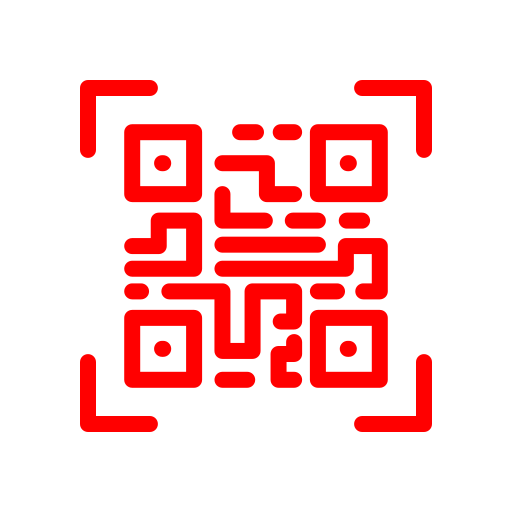
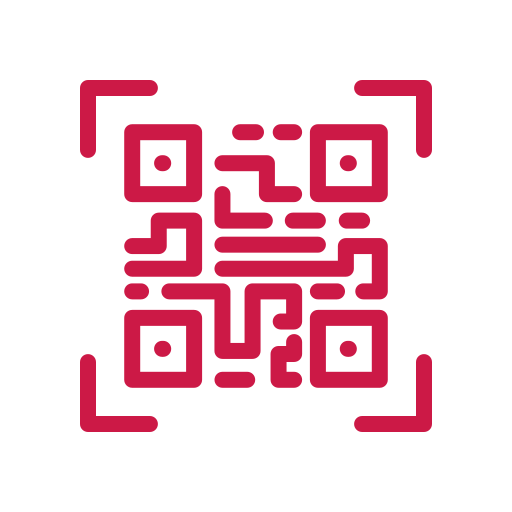
fim

diff --git a/APP3/my-app/app/(tabs)/Perfil.tsx b/APP3/my-app/app/(tabs)/Perfil.tsx
@@ -1,7 +1,7 @@
 import React from "react";
 import { View, Text, TouchableOpacity, StyleSheet, ScrollView, Image } from "react-native";
 
-// Imagens placeholders (adicione seus arquivos)
+// Imagens placeholders
 const FotoPerfil = require("../../assets/images/perfilbola.png"); 
 const IconTelefone = require("../../assets/images/telefone.png"); 
 const IconEntrega = require("../../assets/images/entrega.png"); 
@@ -18,34 +18,42 @@ const IconSeta = require("../../assets/images/seta-direitaC.png");
 export default function Tela03Screen() {
   return (
     <ScrollView style={styles.container}>
-      {/* Header */}
-      <View style={styles.header}>
-        <View style={styles.headerLeft}>
-          <Image source={FotoPerfil} style={styles.fotoPerfil} />
-          <View style={styles.nomeTelefone}>
-            <Text style={styles.nome}>Ana Beatriz</Text>
-            <View style={styles.telefoneContainer}>
-              <Image source={IconTelefone} style={styles.iconTelefone} />
-              <Text style={styles.addTel}>+ Adicionar telefone de acesso</Text>
-            </View>
-          </View>
-        </View>
+      
+      {/* QR Code superior */}
+      <View style={styles.qrContainer}>
         <Image source={IconCodigo} style={styles.iconCodigo} />
       </View>
 
-      {/* Box */}
+      {/* Header perfil */}
+      <View style={styles.headerPerfil}>
+        <Image source={FotoPerfil} style={styles.fotoPerfil} />
+        <View style={styles.nomeTelefone}>
+          <Text style={styles.nome}>Ana Beatriz</Text>
+          <View style={styles.telefoneContainer}>
+            <Image source={IconTelefone} style={styles.iconTelefone} />
+            <Text style={styles.addTel}> Adicionar telefone de acesso</Text>
+          </View>
+        </View>
+      </View>
+
+      {/* Box Entrega mais segura */}
       <TouchableOpacity style={styles.boxEntrega}>
         <View style={styles.boxLeft}>
           <Image source={IconEntrega} style={styles.boxIcon} />
           <View>
             <Text style={styles.boxText}>Entrega mais segura</Text>
-            <Text style={styles.itemSubText}>Agora dá pra alterar o código de entrega. Vem ver!</Text>
+            <Text style={styles.itemSubText}>Agora dá pra alterar o código de</Text>
+            <Text style={styles.itemSubText}>entrega. Vem ver!</Text> 
           </View>
         </View>
-        <Image source={IconSeta} style={[styles.seta, { tintColor: "red" }]} />
+        <View style={styles.boxRight}>
+          <View style={styles.avisoNovo}>
+            <Text style={styles.badgeNovoText}>NOVO!</Text>
+          </View>
+          <Image source={IconSeta} style={[styles.seta, { tintColor: "#cc1946ff" }]} />
+        </View>
       </TouchableOpacity>
 
-      {/* Lista de opções */}
       {/* Conversas */}
       <TouchableOpacity style={styles.item}>
         <View style={styles.itemLeft}>
@@ -56,10 +64,10 @@ export default function Tela03Screen() {
           </View>
         </View>
         <View style={styles.rightContainer}>
-          <Image source={IconSeta} style={styles.seta} />
           <View style={styles.aviso}>
             <Text style={styles.avisoText}>2</Text>
           </View>
+          <Image source={IconSeta} style={styles.seta} />
         </View>
       </TouchableOpacity>
 
@@ -73,10 +81,10 @@ export default function Tela03Screen() {
           </View>
         </View>
         <View style={styles.rightContainer}>
-          <Image source={IconSeta} style={styles.seta} />
           <View style={styles.aviso}>
             <Text style={styles.avisoText}>3</Text>
           </View>
+          <Image source={IconSeta} style={styles.seta} />
         </View>
       </TouchableOpacity>
 
@@ -89,7 +97,12 @@ export default function Tela03Screen() {
             <Text style={styles.itemSubText}>Minhas informações da conta</Text>
           </View>
         </View>
-        <Image source={IconSeta} style={styles.seta} />
+        <View style={styles.rightContainer}>
+          <View style={styles.avisoA}>
+            <Text style={styles.avisoTextA}>!</Text>
+          </View>
+          <Image source={IconSeta} style={styles.seta} />
+        </View>
       </TouchableOpacity>
 
       {/* Pagamentos */}
@@ -102,10 +115,10 @@ export default function Tela03Screen() {
           </View>
         </View>
         <View style={styles.rightContainer}>
-          <Image source={IconSeta} style={styles.seta} />
           <View style={styles.avisoNovo}>
             <Text style={styles.badgeNovoText}>NOVO!</Text>
           </View>
+          <Image source={IconSeta} style={styles.seta} />
         </View>
       </TouchableOpacity>
 
@@ -131,10 +144,10 @@ export default function Tela03Screen() {
           </View>
         </View>
         <View style={styles.rightContainer}>
-          <Image source={IconSeta} style={styles.seta} />
           <View style={styles.avisoNovo}>
             <Text style={styles.badgeNovoText}>NOVO!</Text>
           </View>
+          <Image source={IconSeta} style={styles.seta} />
         </View>
       </TouchableOpacity>
 
@@ -169,22 +182,24 @@ export default function Tela03Screen() {
 const styles = StyleSheet.create({
   container: { flex: 1, backgroundColor: "#fff" },
 
-  header: { 
-    flexDirection: "row", 
-    justifyContent: "space-between", 
-    alignItems: "center", 
-    padding: 15, 
-    borderBottomWidth: 1, 
-    borderColor: "#eee" 
+  qrContainer: {
+    alignItems: "flex-end",
+    padding: 15,
   },
-  headerLeft: { flexDirection: "row", alignItems: "center" },
+  iconCodigo: { width: 30, height: 30, tintColor: "#cc1946ff" },
+
+  headerPerfil: { 
+    flexDirection: "row", 
+    alignItems: "center", 
+    paddingHorizontal: 15,
+    marginBottom: 15,
+  },
   fotoPerfil: { width: 60, height: 60, borderRadius: 30 },
   nomeTelefone: { marginLeft: 10 },
   nome: { fontSize: 20, fontWeight: "bold" },
   telefoneContainer: { flexDirection: "row", alignItems: "center", marginTop: 5 },
-  iconTelefone: { width: 18, height: 18, marginRight: 5 },
-  addTel: { fontWeight: "bold", color: "red" },
-  iconCodigo: { width: 30, height: 30 },
+  iconTelefone: { width: 18, height: 18, marginRight: 5, tintColor: "#cc1946ff" },
+  addTel: { fontWeight: "bold", color: "#cc1946ff" },
 
   boxEntrega: {
     flexDirection: "row",
@@ -193,16 +208,18 @@ const styles = StyleSheet.create({
     padding: 15,
     margin: 15,
     borderRadius: 10,
-    backgroundColor: "#f5f5f5",
+    backgroundColor: "#ecececd7",
     shadowColor: "#000",
     shadowOpacity: 0.05,
     shadowRadius: 3,
     shadowOffset: { width: 0, height: 2 },
     elevation: 2,
+    position: "relative",
   },
   boxLeft: { flexDirection: "row", alignItems: "center" },
   boxIcon: { width: 70, height: 70, marginRight: 10 },
   boxText: { fontSize: 16, fontWeight: "bold" },
+  boxRight: { flexDirection: "row", alignItems: "center", position: "relative" },
   seta: { width: 15, height: 15 },
 
   item: {
@@ -217,31 +234,38 @@ const styles = StyleSheet.create({
   itemLeft: { flexDirection: "row", alignItems: "center" },
   itemIcon: { width: 25, height: 25, marginRight: 10 },
   itemText: { fontSize: 16 },
-  itemSubText: { fontSize: 12, color: "#aaa" },
+  itemSubText: { fontSize: 12, color: "#9e9e9eff" },
 
-  rightContainer: { position: "relative" },
+  rightContainer: { flexDirection: "row", alignItems: "center", position: "relative" },
 
   aviso: {
-    position: "absolute",
-    top: -1,
-    right: 20,
+    marginRight: 5,
     width: 18,
     height: 18,
     borderRadius: 9,
-    backgroundColor: "red",
+    backgroundColor: "#cc1946ff",
     justifyContent: "center",
     alignItems: "center",
   },
   avisoText: { color: "#fff", fontSize: 10, fontWeight: "bold" },
 
+    avisoA: {
+    marginRight: 5,
+    width: 18,
+    height: 18,
+    borderRadius: 9,
+    backgroundColor: "#ffae00ff",
+    justifyContent: "center",
+    alignItems: "center",
+  },
+  avisoTextA: { color: "#000000ff", fontSize: 10, fontWeight: "bold" },
+  
   avisoNovo: {
-    position: "absolute",
-    top: -1,
-    right: 20,
+    marginRight: 5,
     paddingHorizontal: 6,
     height: 18,
     borderRadius: 9,
-    backgroundColor: "red",
+    backgroundColor: "#cc1946ff",
     justifyContent: "center",
     alignItems: "center",
   },

diff --git a/APP3/my-app/app/(tabs)/index.tsx b/APP3/my-app/app/(tabs)/index.tsx
@@ -37,6 +37,12 @@ const produtos: Produto[] = [
   { id: "4", nome: "Metade Milho", preco: "R$ 58,00", img: BoloMandioca },
   { id: "5", nome: "Bolo Milho", preco: "R$ 40,00", img: BoloChocolateMorango },
   { id: "6", nome: "Bolo Mandioca Romeu e Julieta", preco: "R$ 28,00", img: BoloCoco },
+  { id: "7", nome: "Metade Cenoura com Cobertura", preco: "R$ 30,00", img: BoloCenoura },
+  { id: "8", nome: "Bolo Cenoura com cobertura", preco: "R$ 34,00", img: BoloFormigueiro },
+  { id: "9", nome: "Bolo de Formigueiro", preco: "R$ 23,00", img: BoloMilho },
+  { id: "10", nome: "Metade Milho", preco: "R$ 58,00", img: BoloMandioca },
+  { id: "11", nome: "Bolo Milho", preco: "R$ 40,00", img: BoloChocolateMorango },
+  { id: "12", nome: "Bolo Mandioca Romeu e Julieta", preco: "R$ 28,00", img: BoloCoco },
 ];
 
 const screenWidth = Dimensions.get("window").width;

diff --git a/APP3/my-app/app/(tabs)/Busca.tsx b/APP3/my-app/app/(tabs)/Busca.tsx
@@ -37,6 +37,9 @@ const produtos: Produto[] = [
   { id: "4", nome: "Metade Milho", preco: "R$ 58,00", img: BoloMandioca },
   { id: "5", nome: "Bolo Milho", preco: "R$ 40,00", img: BoloChocolateMorango },
   { id: "6", nome: "Bolo Mandioca Romeu e Julieta", preco: "R$ 28,00", img: BoloCoco },
+  { id: "7", nome: "Metade Cenoura com Cobertura", preco: "R$ 30,00", img: BoloCenoura },
+  { id: "8", nome: "Bolo Cenoura com cobertura", preco: "R$ 34,00", img: BoloFormigueiro },
+  { id: "9", nome: "Bolo de Formigueiro", preco: "R$ 23,00", img: BoloMilho },
 ];
 
 const screenWidth = Dimensions.get("window").width;
@@ -267,7 +270,7 @@ const styles = StyleSheet.create({
   },
 
   cupomBox: {
-    marginTop: 15,
+    marginTop: -10,
     marginHorizontal: 15,
     flexDirection: "row",
     alignItems: "center",
